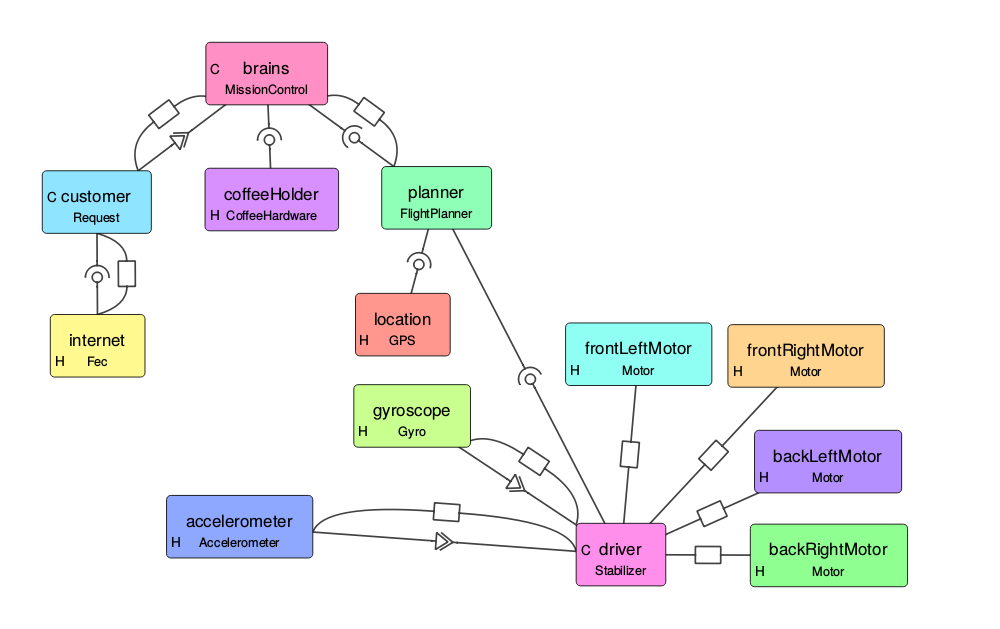
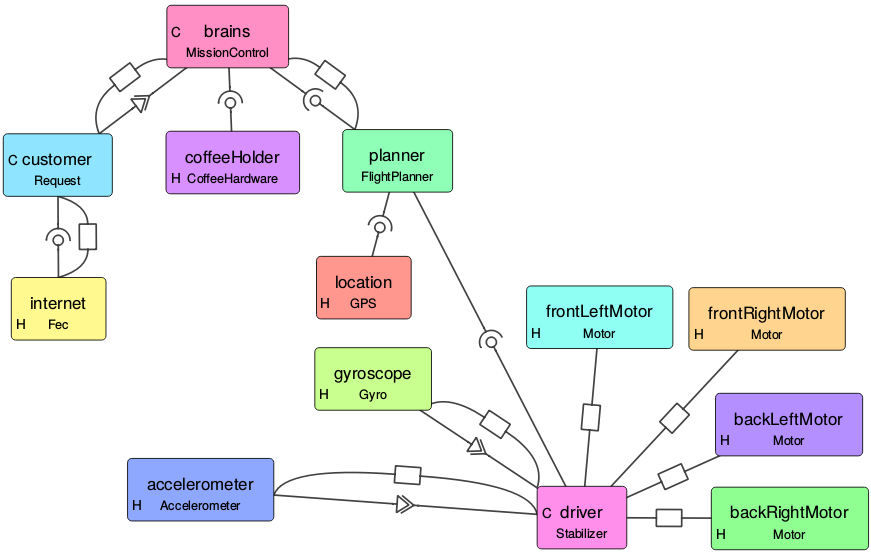
visual camkes: adapt images for dark mode

Changed region(s): [[0.0, 0.0, 1.0, 1.0]]

diff --git a/projects/camkes/visual-camkes/index.md b/projects/camkes/visual-camkes/index.md
@@ -14,7 +14,8 @@ components are connected together. This makes understanding easier and more
 intuitive than traversing CAmkES code. An example of a graph generated by this
 tool is shown below
 
-<img src="VisualCAmkES_Layout_Example.png" alt="Example Output from VisualCAmkES" />
+<img class="w-4/5 mx-auto dark:bg-white dark:p-4 dark:rounded-xl"
+     src="VisualCAmkES_Layout_Example.png" alt="Example Output from VisualCAmkES">
 
 Currently this program loads in a top-level camkes file and generates a graph
 from it. It also lets the user interact with the graph (zoom, pan and move
@@ -112,7 +113,8 @@ camkes file**. Your graph will load.
 
 In the right, you have a few buttons:
 
-<img src="VisualCAmkES_userButtons.png" alt="VisualCAmkES Corner UI buttons" />
+<img class="dark:bg-white dark:p-4 dark:rounded-xl"
+     src="VisualCAmkES_userButtons.png" alt="VisualCAmkES Corner UI buttons">
 
 The button's name should be self-explanatory. Autolayout will use graphviz to
 reposition the nodes into a "nice" format. In my experience, graphviz never
@@ -169,7 +171,8 @@ The key-mappings are as follows:
 
 ### High-level overview
 
-<img style="width: 900px;" src="VisualCAmkES_UML.png" alt="UML Diagram of VisualCAmkES" />
+<img class="w-4/5 mx-auto dark:bg-white dark:p-4 dark:rounded-xl"
+     src="VisualCAmkES_UML.png" alt="UML Diagram of VisualCAmkES">
 
 The above is quick UML class diagram. A few other classes isn't shown like
 SaveOptionDialog - but these are helper classes.
